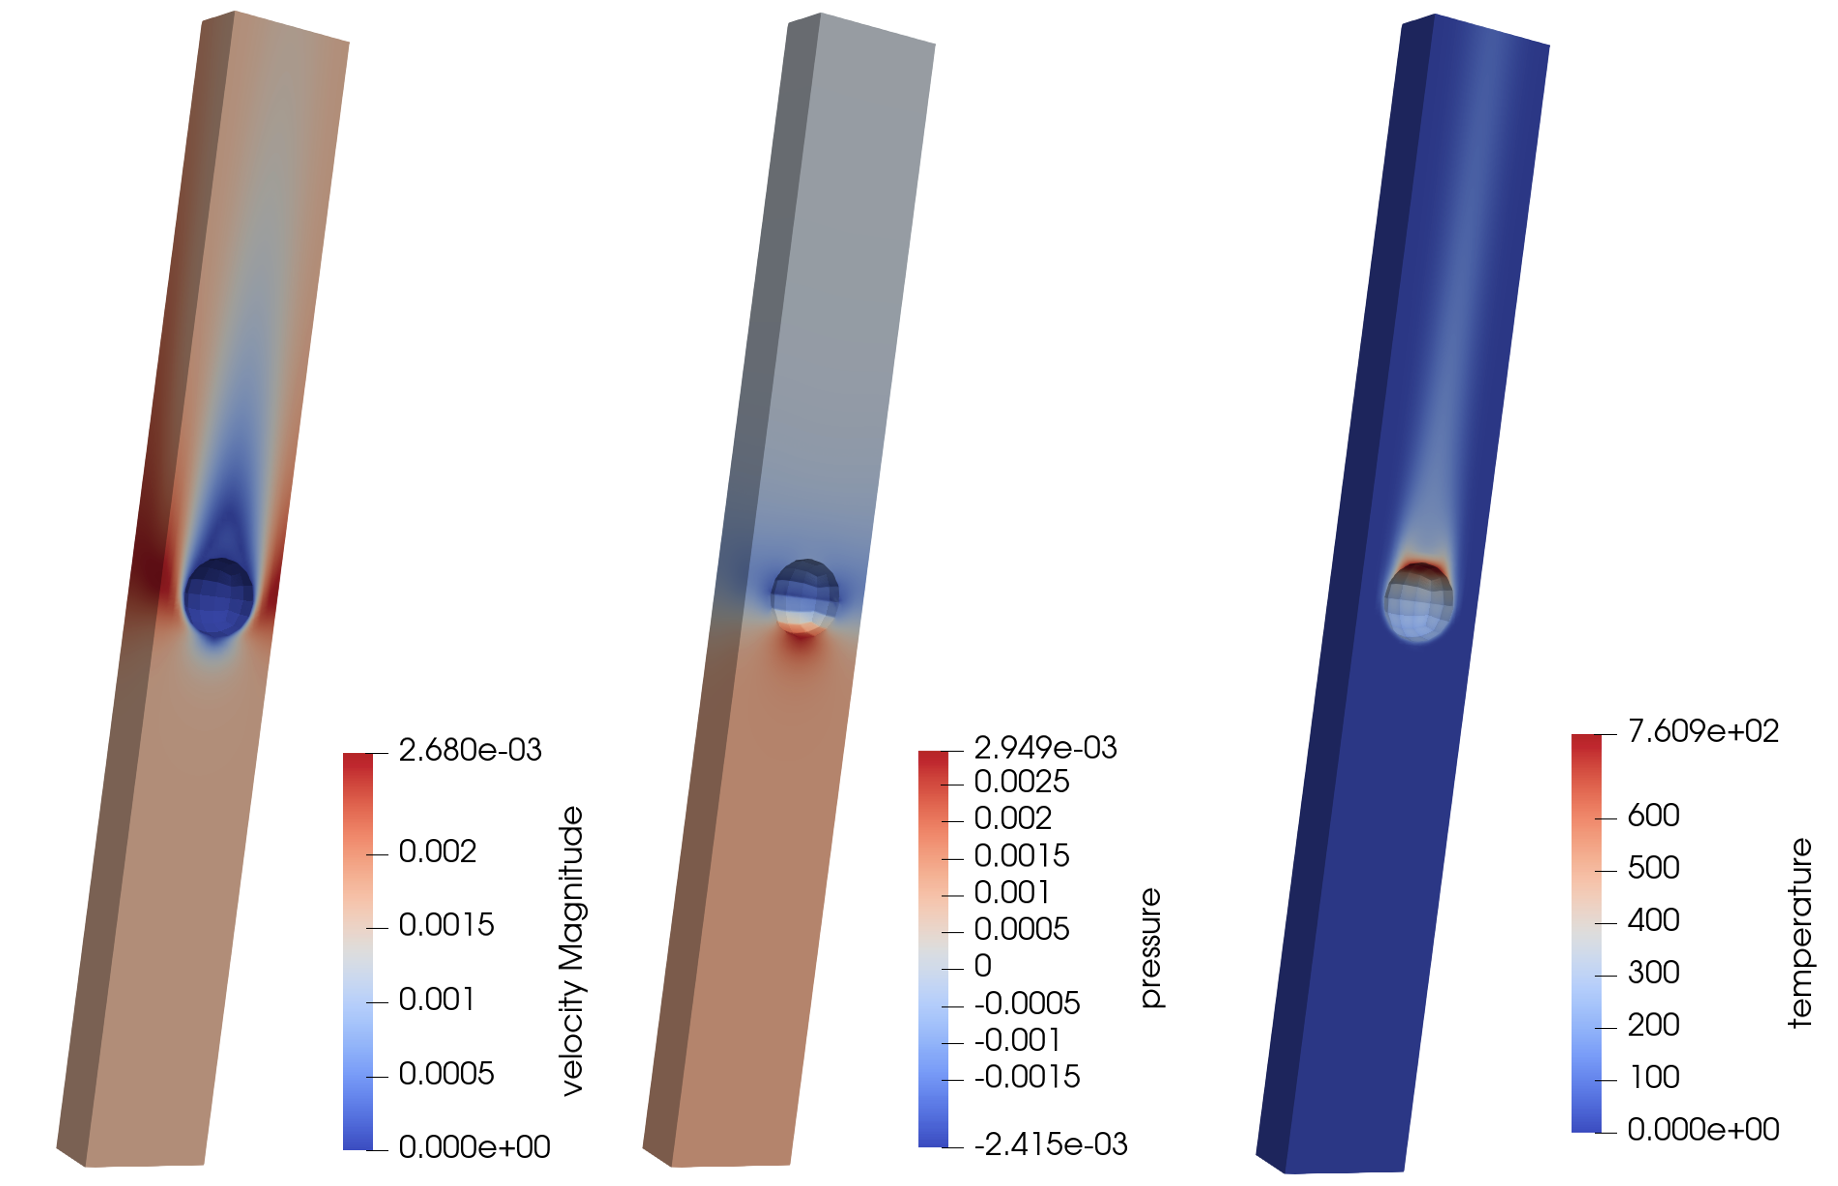
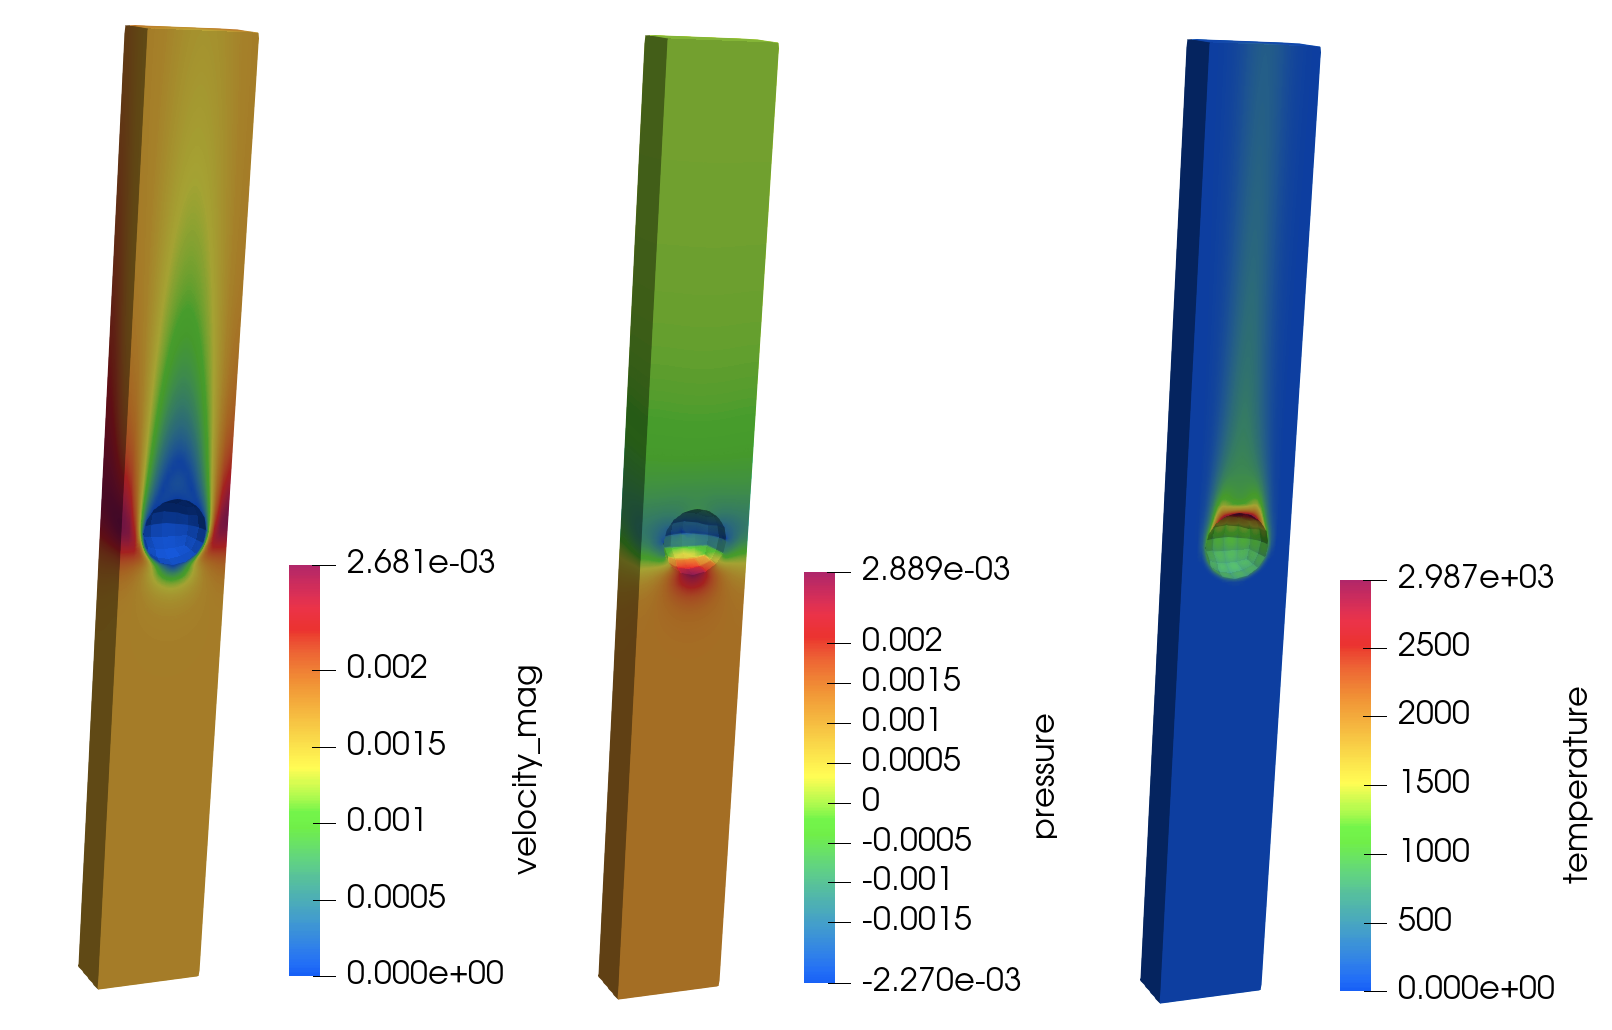
new tutorials folder

diff --git a/doc/content/tutorials/nek_intro.md b/doc/content/tutorials/nek_intro.md
@@ -41,28 +41,30 @@ but without a turbulent flow field) and [!ac](LES) (at a higher Reynolds number
 than the laminar case). Details on the problem
 specifications are given in [table1].
 The inlet velocity is specified such that
-the Reynolds number is (i) $Re=50$ for the laminar case (inlet velocity of 0.001666 m/s) or (ii) $Re=2000$ for the [!ac](LES) case (inlet velocity of 0.06664 m/s). The characteristic scale for the Reynolds number is chosen as the pebble diameter.
-The pebble surface heat flux is selected to
-give a pebble power of approximately 223 W (giving a bulk fluid temperature rise
-of 50 K for (i) the laminar case or (ii) 0.5 K for the [!ac](LES) case).
+the Reynolds number is (i) $Re=50$ for the laminar case or (ii) $Re=2000$ for the [!ac](LES) case. The characteristic scale for the Reynolds number is chosen as the pebble diameter,
 
-!table id=table1 caption=Geometric and operating conditions for the single-pebble flow
+\begin{equation}
+Re=\frac{\rho VD}{\mu}
+\end{equation}
+
+We will apply a uniform heat flux on the pebble surface. The pebble surface heat flux is selected to
+give a pebble power of approximately 893 W (giving a bulk fluid temperature rise
+of 50 K for (i) the laminar case or (ii) 1.25 K for the [!ac](LES) case).
+In the
+[conjugate heat transfer tutorials](tutorials/cht.md), this heat flux will later be
+replaced by coupling to MOOSE.
+
+!table id=table1 caption=Geometric and operating conditions for the single-pebble flow. Fluid properties correspond to water at standard atmosphere and temperature.
 | Parameter | Value |
 | :- | :- |
 | Pebble diameter | 0.03 m |
 | Domain height | 0.4306 m |
-| Inlet flow area | 0.00064009 m |
 | Fluid viscosity | 1e-3 Pa-s |
 | Fluid density | 1000 kg/m$^3$ |
 | Fluid thermal conductivity | 0.6 W/m/K |
 | Fluid volumetric specific heat | 4186 J/kg/K |
-| Pebble surface heat flux | 78939 W/m$^2$ |
 
-We will apply a uniform heat flux on the pebble surface. In the
-[conjugate heat transfer tutorials](tutorials/cht.md), this heat flux will later be
-replaced by coupling to MOOSE.
-
-At a minimum, the NekRS model will constitute the following files:
+At a minimum, a NekRS model will constitute the following files:
 
 - `pebble.re2`: Mesh file
 - `pebble.par`: High-level settings for the solver, boundary
@@ -78,7 +80,7 @@ setting file names for the mesh, `.udf`, and `.oudf` file in the `.par` file (di
 
 !alert note
 You may also optionally have a Fortran `.usr` file which provides some backend
-capability to Nek5000 which has not yet been ported to NekRS. For instructional
+capability to Nek5000 features (which is written in Fortran) which have not yet been ported to NekRS. For instructional
 purposes, we will show you two use cases for the `.usr` file - modifying sideset IDs
 and scaling the mesh.
 
@@ -115,12 +117,11 @@ exo2nek
 Follow the on-screen prompts. For this case, we have:
 
 - 1 fluid exo file, which is named `pebble.exo` (you only need to provide `pebble` as the name)
-- 0 solid exo files (this is nonzero when NekRS is solving for both fluid and solid domains)
+- 0 solid exo files (this is nonzero when NekRS is solving for both fluid and solid domains; in this example, we apply a surface heat flux, but are not actually solving for temperature in the solid.)
 - 0 periodic surface pairs (this is nonzero when applying periodic boundary conditions)
 - output file name is `pebble.re2` (you only need to provide `pebble` as the output name)
 
 This will create a mesh named `pebble.re2`.
-
 NekRS is a spectral element code, which means that the solution in each element is represented
 as an $N$-th order Lagrange polynomial (in each direction).
 An illustration for a 5th-order NekRS solution is shown in [gll_mesh] for a 2-D element. Each
@@ -131,8 +132,8 @@ to run NekRS at different polynomial orders).
 
 !media gll.png
   id=gll_mesh
-  caption=Illustration of nodal positions for a 5-th order polynomial solution.
-  style=width:30%;margin-left:auto;margin-right:auto;halign:center
+  caption=Nodal positions for a 5-th order polynomial solution.
+  style=width:25%;margin-left:auto;margin-right:auto;halign:center
 
 ## Laminar Flow
 
@@ -162,7 +163,7 @@ vendor). For our case, we will run this on CPU so we set the backend as CPU.
 
 The `[GENERAL]` block describes the
 time stepping, simulation end control, and polynomial order.
-A NekRS output file is written every 1000 time steps.
+A NekRS output file is written every 500 time steps.
 The `numSteps` field indicate how many time steps to take.
 We will use a polynomial order of $N=5$. We will begin with our first
 time step as $\Delta t=1e-4$ seconds, but allow NekRS to adaptively increase
@@ -173,15 +174,17 @@ this to get a target [!ac](CFL) number of 2.0.
 Next, the `[VELOCITY]` and `[PRESSURE]` blocks describe the solution of the
 pressure Poisson equation and velocity Helmholtz equations.
 The `[TEMPERATURE]` block describes the solution of the
-temperature passive scalar equation. In these blocks, `residualTol` is used to indicate
-the solver tolerance. In these blocks, you also specify the type of boundary conditions
+temperature passive scalar equation. If this case had additional passive scalars, they would be represented using `[SCALARXX]` blocks, where `XX` would be replaced with a two digit number indicating the scalar number.
+
+In these blocks, `residualTol` is used to indicate
+the solver tolerance. Here, you also specify the type of boundary conditions
 to apply to each sideset (you only specify boundary conditions in the `[VELOCITY]` and
 `[TEMPERATURE]` blocks, because the pressure and velocity solves are really indicating
 together a solution to the momentum conservation equation).
 The `boundaryTypeMap` is used to specify the mapping of
 boundary IDs to types of boundary conditions. NekRS uses short character strings
 to represent the type of boundary condition. For velocity, some of the common boundary condition strings are
-shown in [vel_bcs]. We will talk about the `.oudf` file shortly.
+shown in [vel_bcs].
 
 !table id=vel_bcs caption=Common velocity boundary conditions in NekRS
 | Meaning | How to set in `.par` File | Function name in `.oudf` File |
@@ -202,25 +205,64 @@ For temperature, some common boundary condition strings are shown in [temp_bcs].
 | `t` | Dirichlet temperature | `scalarDirichletConditions` |
 | `f` | Neumann flux | `scalarNeumannConditions` |
 | `I` | insulated | --- |
-| `symx` | symmetry in the $x$-direction | --- |
-| `symy` | symmetry in the $y$-direction | --- |
-| `symz` | symmetry in the $z$-direction | --- |
-| `sym` | general symmetry boundary | --- |
 
 When you populate `boundaryTypeMap` in the input file, you simply list the
 character string for your desired boundary condition in the same order as the sidesets
 (which as you recall are numbered sequentially).
 
-In the `[VELOCITY]` block, the `density` parameter is used to specify density,
-and `viscosity` is used to specify viscosity.
-In the `[TEMPERATURE]` block, `rhoCp` indicates the coefficient on
-the time derivative term (volumetric specific heat) and `conductivity` indicates
-the thermal conductivity.
+In each of the equation blocks, different parameter names are used to indicate
+the properties which are multiplying the time and diffusive terms.
+
+!table caption=Names of parameters for properties in each block
+| Block | Coefficient on time derivative | Coefficient on diffusive term |
+| :- | :- | :- |
+| `[VELOCITY]` | `rho` | `viscosity`|
+| `[TEMPERATURE]` | `rhoCp` | `conductivity` |
+| `[SCALARXX]` | `rho` | `diffusivity` |
+
+For convenience, NekRS allows you to pull parameters from the `.par` file elsewhere
+throughout your case files - for instance, you will need to specify boundary and
+initial conditions in the `.oudf` and `.udf` files. In order to streamling the
+model setup, you can use the `[CASEDATA]` block to write user-defined local variable
+names which we will extract later. Here, we define local variables which we arbitrarily
+name `Re`, `D`, and `inlet_T` which we'll use in our boundary and initial conditions.
+
+### .udf File
+
+The `.udf` file contains additional C++ code which is typically used for setting initial conditions and
+postprocessing. This file at a minimum
+must contain 3 functions (they can be empty):
+
+- `UDF_LoadKernels` will load any user-defined physics kernels
+- `UDF_Setup` is called on initialization time, and is typically where initial conditions are applied
+- `UDF_ExecuteStep` is called once on each time step, and is typically where postprocessing is applied
+
+!listing /tutorials/pebble_1/pebble.udf language=cpp
+
+Here, we use the `UDF_Setup` function to set initial conditions (to the same values
+we applied as our inlet boundary conditions). NekRS stores the various solution components on the host as
+
+- `nrs->U` is velocity (all three components are packed one after another, with each "slice" of length `nrs->fieldOffset`)
+- `nrs->P` is pressure
+- `nrs->cds->S` are the passive scalars (packed sequentially one after another, each
+  of length `nrs->cds->fieldOffset[i]`)
+
+Our problem only has one passive scalar (temperature). You will have additional
+passive scalars if doing [!ac](RANS) modeling (e.g. $k$ and $\tau$ would be passive
+scalars) or if you have additional conservation equations for mass transport, etc.
+We apply the initial condition by looping over all the
+elements in the mesh, and in each element for all the [!ac](GLL) points.
+
+Next, we fetch the parameters we desired from the `.par` file in `UDF_LoadKernels`.
+Here, we fetch the values we provided in the `[CASEDATA]` block, as well as the
+viscosity and density we gave in the `[VELOCITY]` block. The `kernelInfo` lines in
+particular are sending the `inlet_v` and `inlet_T` values from host to device,
+so that we can later access them from the `.oudf` file.
 
 ### .oudf File
 
 The `.oudf` file contains all of the boundary conditions. For more complex
-models, this file will in general contains any code which runs on the GPU
+models, this file will in general contain any code which runs on the GPU
 (custom physics, etc.).
 
 When you define the boundary
@@ -245,32 +287,6 @@ about the current boundary that is "calling" the function:
 
 !listing /tutorials/pebble_1/pebble.oudf language=cpp
 
-### .udf File
-
-The `.udf` file contains additional C++ code which is typically used for setting initial conditions and
-postprocessing. This file at a minimum
-must contain 3 functions (they can be empty):
-
-- `UDF_LoadKernels` will load any user-defined physics kernels
-- `UDF_Setup` is called on initialization time, and is typically where initial conditions are applied
-- `UDF_ExecuteStep` is called once on each time step, and is typically where postprocessing is applied
-
-!listing /tutorials/pebble_1/pebble.udf language=cpp
-
-Here, we only use the `UDF_Setup` function to set initial conditions (to the same values
-we applied as our inlet boundary conditions). NekRS stores the various solution components on the host as
-
-- `nrs->U` is velocity (all three components are packed one after another, with each "slice" of length `nrs->fieldOffset`)
-- `nrs->P` is pressure
-- `nrs->cds->S` are the passive scalars (packed sequentially one after another, each
-  of length `nrs->cds->fieldOffset[i]`)
-
-Our problem only has one passive scalar (temperature). You will have additional
-passive scalars if doing [!ac](RANS) modeling (e.g. $k$ and $\tau$ would be passive
-scalars) or if you have additional conservation equations for mass transport, etc.
-We apply the initial condition by looping over all the
-elements in the mesh, and in each element for all the [!ac](GLL) points.
-
 ### .usr File
 
 NekRS is under rapid development, and many features from Nek5000 are currently
@@ -289,7 +305,7 @@ must be present, but can be empty).
 The various terms in this function are:
 
 - `iel` is a loop variable name used to indicate a loop over elements
-- `ifc` is a loop variable name used to indicate a loop over the faces on an element
+- `ifc` is a loop variable name used to indicate a loop over the (six) faces on an element
 - `boundaryID(ifc, iel)` is the sideset ID for velocity
 
 ### Execution and Postprocessing
@@ -320,7 +336,7 @@ This will create a file named `pebble.nek5000`, which has very simple contents:
 ```
  filetemplate: pebble%01d.f%05d
  firsttimestep: 1
- numtimesteps: 8
+ numtimesteps: 4
 ```
 
 This file tells Paraview how many time steps there are to load and the naming pattern for those files. To open the NekRS output files, you then need to open the `pebble.nek5000` file.
@@ -366,8 +382,6 @@ The casename for the [!ac](LES) case will be `pebble_les`. We will use the same 
 
 Note also that the fluid properties are expressed in non-dimensional form. A shortcut in NekRS is indicated with negative numbers, which are interpreted as the inverse of that number. For the velocity equation, [non-dimensional scaling](https://cardinal.cels.anl.gov/theory/nondimensional_ns.html) results in a coefficient of $1/Re$ on the viscous term, instead of viscosity. Likewise, the non-dimensional form of the energy equation results in a coefficient of $1/Pe$ on the diffusive term, instead of thermal conductivity.
 
-For illustration, we load the initial condition from the laminar case run previously using the `startFrom` parameter.
-
 ### .oudf File
 
 The only difference in the `.oudf` file is now that the boundary conditions are all expressed in non-dimensional form.
@@ -376,7 +390,9 @@ The only difference in the `.oudf` file is now that the boundary conditions are 
 
 ### .udf File
 
-The `.udf` file is simpler in this case, because we are loading initial conditions from a previoud field file from the laminar run.
+The `.udf` file is essentially the same as earlier. However, we can use a more
+concise initial condition loop by noting that the default initial condition
+for NekRS is zero.
 
 !listing /tutorials/pebble_1/pebble_les.udf language=cpp
 
@@ -390,6 +406,7 @@ In order to scale the mesh into non-dimensional form, we need to divide all coor
 
 You can run the NekRS case with
 
+
 ```
 $NEKRS_HOME/bin/nrsmpi pebble_les 80
 ```
@@ -399,8 +416,12 @@ by NekRS.
 
 !media standalone_pebble2.png
   id=standalone_pebble2
-  caption=NekRS predicted velocity, pressure, and temperature at a single snapshot in time for turbulent flow at $Re=2000$
+  caption=NekRS predicted velocity, pressure, and temperature at a single snapshot in time for turbulent flow at $Re=2000$ and $Pr=0.686$
   style=width:60%;margin-left:auto;margin-right:auto;halign:center
+
+!alert note
+We have not done extensive verification of this mesh for [!ac](LES) runs. Before adopting this particular single-pebble model for any research purposes, be sure to
+assess sufficient mesh resolution, such as by comparing the grid spacing to the Taylor microscale. This mesh is likely a bit underresolved.
 
 ## Hex8 vs Hex20
 

diff --git a/doc/content/tutorials/cht5.md b/doc/content/tutorials/cht5.md
@@ -27,30 +27,13 @@ pebble is not shown). The sideset numbering in the fluid domain is:
   style=width:30%;margin-left:auto;margin-right:auto;halign:center
 
 NekRS shall solve for laminar flow over this pebble. Details on the problem
-specifications are given in [table1]. The inlet velocity is specified such that
-the Reynolds number is $Re=50$.
+specifications are given in a [previous tutorial](tutorials/nek_intro.md). The inlet velocity is specified such that the Reynolds number is $Re=50$.
 
 The MOOSE heat transfer module shall be used to solve for the solid temperature.
 NekRS and MOOSE will be coupled through boundary conditions on the pebble surface;
 NekRS shall compute a pebble surface temperature to be applied as a Dirichlet condition
 to MOOSE, while MOOSE shall compute a pebble surface heat flux to be applied
 as a Neumann condition in NekRS.
-The pebble power is selected to
-give a pebble power of approximately 223 W (giving a bulk fluid temperature rise
-of 50 K).
-
-!table id=table1 caption=Geometric and operating conditions for the single-pebble flow
-| Parameter | Value |
-| :- | :- |
-| Pebble diameter | 0.03 m |
-| Domain height | 0.4306 m |
-| Inlet flow area | 0.00064009 m |
-| Inlet velocity | 0.001666 m/s |
-| Fluid viscosity | 1e-3 Pa-s |
-| Fluid density | 1000 kg/m$^3$ |
-| Fluid thermal conductivity | 0.6 W/m/K |
-| Fluid volumetric specific heat | 4186 J/kg/K |
-| Pebble power density | 15774023 W/m$^3$ |
 
 ## CHT Coupling
 
@@ -218,7 +201,6 @@ which will create a file name `solid_in.e` which contains the mesh. Note
 that you do not *need* to do this! When we run our simulation later, the mesh
 will already be visible in the output file. This is strictly showing you how you would
 generate *just* the mesh from a MOOSE input file.
-
 If we open `solid_in.e` in Paraview, we can see the mesh as shown in [one_pebble_mesh].
 The surface of the pebble is sideset 0.
 
@@ -269,7 +251,12 @@ time step. Allowing sub-cycling means that, if the MOOSE time step is 0.05 secon
 the NekRS time step set in the `.par` file is 0.02 seconds, that for every MOOSE time step, NekRS will perform
 three time steps, of length 0.02, 0.02, and 0.01 seconds to "catch up" to the main
 application. If sub-cycling is turned off, then the smallest time step among all the various
-applications is used.
+applications is used. This is shown schematically below.
+
+!media subcycling2.png
+  id=subcycling2
+  caption=Subcycling in MOOSE will automatically add time steps (blue circles) to the time steps taken by a sub-application to ensure synchronization points. The red circles indicate time steps each application would have taken were it run as a single-physics solve.
+  style=width:80%;margin-left:auto;margin-right:auto;halign:center
 
 Three transfers are required to couple Cardinal and MOOSE; the first is a transfer
 of surface temperature from Cardinal to MOOSE.
